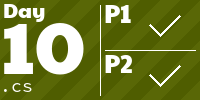
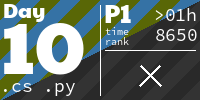
Add 2024 day10 - part 2 not finished

diff --git a/Solutions/2024/Day10/Day10 - part2.py b/Solutions/2024/Day10/Day10 - part2.py
@@ -1,0 +1,72 @@
+from Helper import *
+
+directions = [(-1, 0), (0, 1), (1, 0), (0, -1)]
+
+def get_number_of_hikes(node, start_height, max_height):
+    current_height = start_height
+    next_nodes = get_next_nodes(matrix, node, start_height)
+    while len(next_nodes) > 0:
+        current_height += 1
+
+        if current_height == max_height:
+            return len(next_nodes)
+        
+        next_next_nodes = set()
+        for next_node in next_nodes:
+            next_next_nodes.update(get_next_nodes(matrix, next_node, current_height))
+        
+        next_nodes = next_next_nodes
+    return 0
+
+def get_next_nodes(matrix, node, current_height):
+    next_nodes = set()
+    row, col = node
+    
+    for dx, dy in directions:
+        next_row = row + dx
+        next_col = col + dy
+        if 0 <= next_row < rows and 0 <= next_col < cols:
+            next_height = matrix[next_row][next_col]
+            if next_height - current_height == 1:
+                next_nodes.add((next_row, next_col))
+
+    return next_nodes
+
+start_time = initialize()
+result = 0
+
+with open("/workspaces/AdventOfCode/Solutions/2024/Day10/example.txt", "r") as file:
+    matrix = [[int(char) for char in line.strip()] for line in file]
+
+print_matrix(matrix)
+rows = len(matrix)
+cols = len(matrix[0]) if rows > 0 else 0
+
+nodes = get_nodes_with(0, matrix)
+print(nodes)
+
+max_heigth = 9
+#possible_paths = len(nodes)
+
+for node in nodes:
+    number_of_nodes = len(node)
+    print(f'node: {node}')
+    current_height = 0
+    possible_paths = 1
+    next_nodes = get_next_nodes(matrix, node, current_height)
+    while len(next_nodes) > 0:
+        possible_paths += len(next_nodes) - 1
+        current_height += 1
+
+        #todo: make sure the paths are counted correctly
+        print(f'possible paths: {possible_paths} - nodes: {next_nodes} - current_height {current_height}')
+
+        next_next_nodes = set()
+        for next_node in next_nodes:
+            next_next_nodes.update(get_next_nodes(matrix, next_node, current_height))
+
+        next_nodes = next_next_nodes
+
+print(f'Result: {result}')
+
+print_runtime(start_time)

diff --git a/Solutions/2024/Day10/Day10 - part1.py b/Solutions/2024/Day10/Day10 - part1.py
@@ -1,0 +1,57 @@
+from Helper import *
+
+directions = [(-1, 0), (0, 1), (1, 0), (0, -1)]
+
+def get_number_of_hikes(node, start_height, max_height):
+    current_height = start_height
+    next_nodes = get_next_nodes(matrix, node, start_height)
+    while len(next_nodes) > 0:
+        current_height += 1
+
+        if current_height == max_height:
+            return len(next_nodes)
+        
+        next_next_nodes = set()
+        for next_node in next_nodes:
+            next_next_nodes.update(get_next_nodes(matrix, next_node, current_height))
+        
+        next_nodes = next_next_nodes
+    return 0
+
+def get_next_nodes(matrix, node, current_height):
+    next_nodes = set()
+    row, col = node
+    
+    for dx, dy in directions:
+        next_row = row + dx
+        next_col = col + dy
+        if 0 <= next_row < rows and 0 <= next_col < cols:
+            next_height = matrix[next_row][next_col]
+            if next_height - current_height == 1:
+                next_nodes.add((next_row, next_col))
+
+    return next_nodes
+
+start_time = initialize()
+result = 0
+
+with open("/workspaces/AdventOfCode/Solutions/2024/Day10/input.txt", "r") as file:
+    matrix = [[int(char) for char in line.strip()] for line in file]
+
+print_matrix(matrix)
+rows = len(matrix)
+cols = len(matrix[0]) if rows > 0 else 0
+
+start_nodes = get_nodes_with(0, matrix)
+print(start_nodes)
+
+start_heigth = 0
+max_heigth = 9
+for node in start_nodes:
+    number_of_hikes = get_number_of_hikes(node, start_heigth, max_heigth) 
+    result += number_of_hikes
+    print(f'node: {node} - hikes {number_of_hikes} - result {result}')
+
+print(f'Result: {result}')
+
+print_runtime(start_time)

diff --git a/Solutions/2024/Day10/Helper.py b/Solutions/2024/Day10/Helper.py
@@ -1,0 +1,41 @@
+import time
+import os
+
+def print_runtime(start_time):
+    end_time = time.time()
+    runtime = end_time - start_time
+    print(f"Runtime: {runtime} seconds")
+
+def initialize():
+    start_time = time.time()
+    year = 2024
+    file_name = os.path.basename(__file__)
+    print(f'{year} - {file_name}')
+    return start_time
+
+def print_matrix(matrix):
+    for row in matrix:
+        print(" ".join(str(element) for element in row))
+
+def get_nodes_with(char, matrix):
+    nodes = list()
+    for i, row in enumerate(matrix):
+        for j, element in enumerate(row):
+            if element == char:
+                nodes.append((i,j))
+    return nodes
+
+def inBounds(rows, cols, node):
+    row, col = node
+    return 0 <= row < rows and 0 <= col < cols
+
+def get_next_node(matrix, node, direction):
+    row, col = node
+    dx, dy = directions[direction]
+    return matrix[row + dx][col + dy]
+
+
+def get_heigth(matrix, node):
+    row, col = node
+    return matrix[row][col]
+

diff --git a/README.md b/README.md
@@ -9,7 +9,7 @@ Data is stored in a private repository and can be loaded via
 
 <!-- AOC TILES BEGIN -->
 <h1 align="center">
-  2024 - 18 ⭐ - Smalltalk
+  2024 - 19 ⭐ - Smalltalk
 </h1>
 <a href="ProjectTemplate/SolverPart1.cs">
   <img src=".aoc_tiles/tiles/2024/01.png" width="161px">
@@ -37,6 +37,9 @@ Data is stored in a private repository and can be loaded via
 </a>
 <a href="Solutions/2023/Day09/HistoryRecord.cs">
   <img src=".aoc_tiles/tiles/2024/09.png" width="161px">
+</a>
+<a href="Solutions/2023/Day10/Coordinate.cs">
+  <img src=".aoc_tiles/tiles/2024/10.png" width="161px">
 </a>
 <!-- AOC TILES END --> 
 <h1 align="center">
